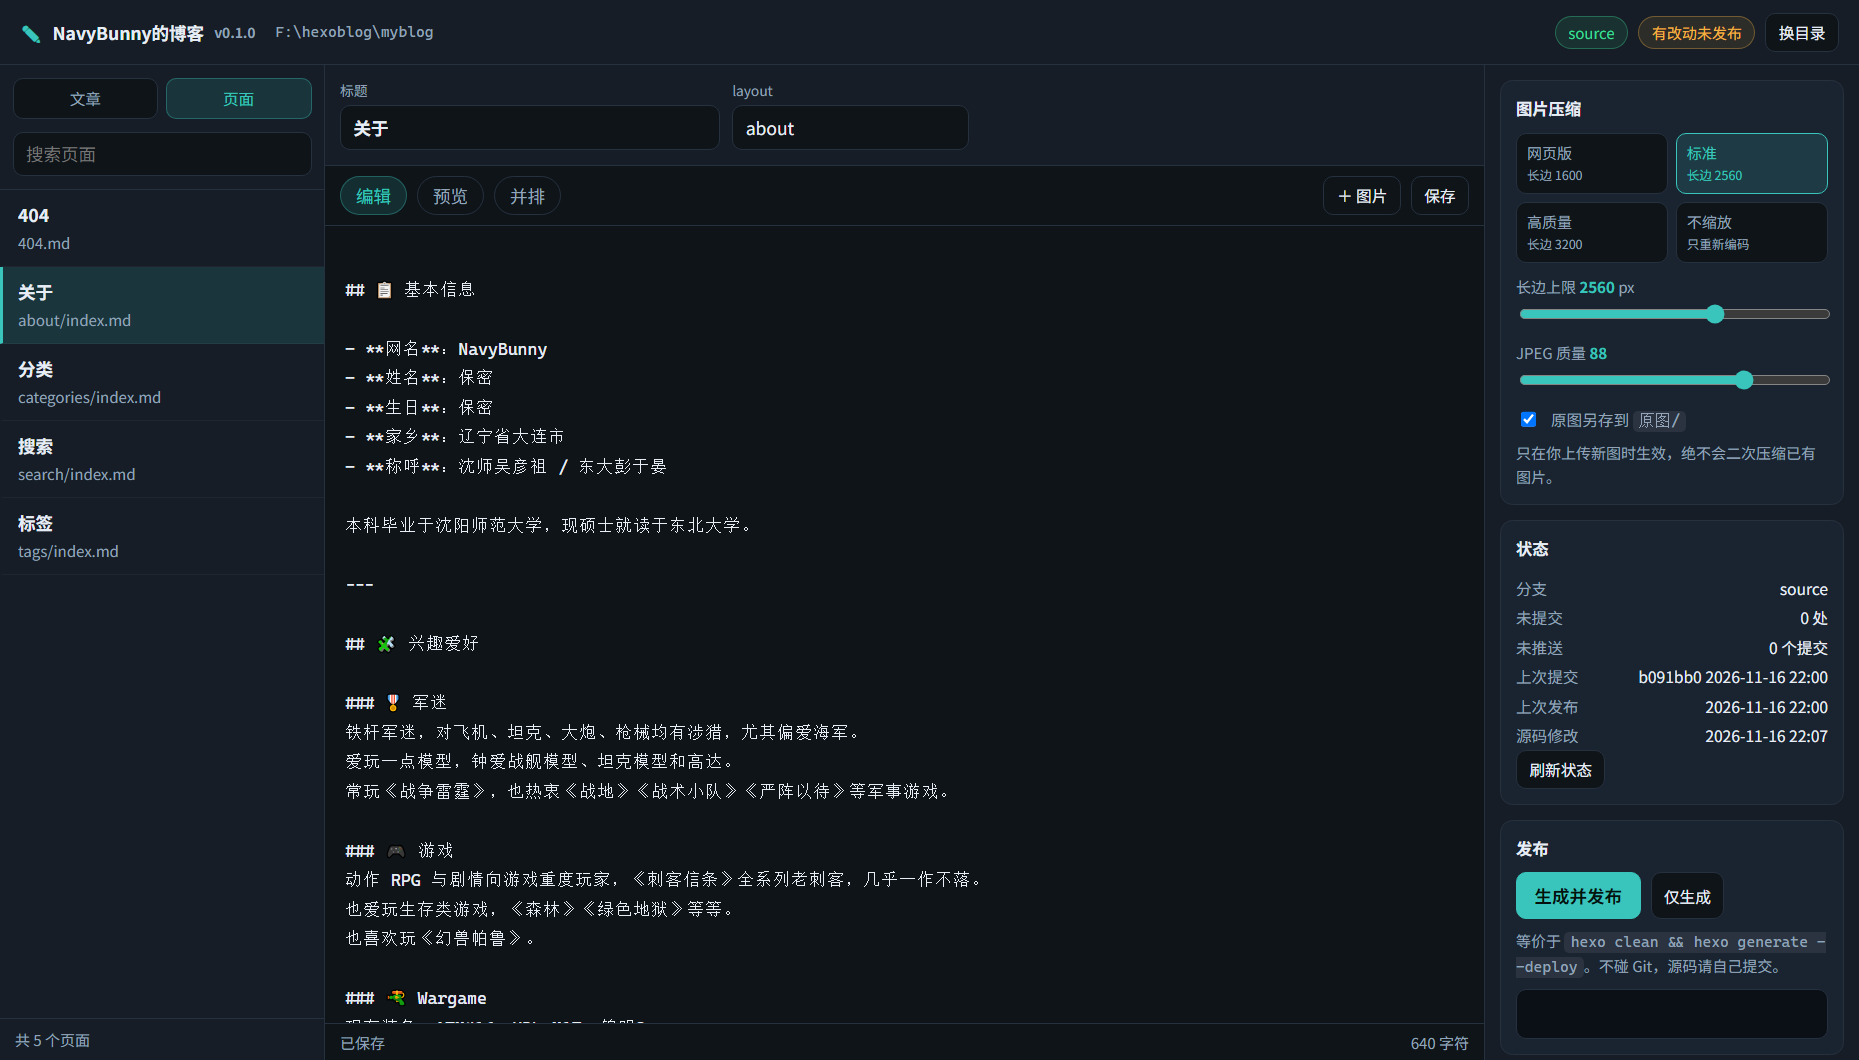
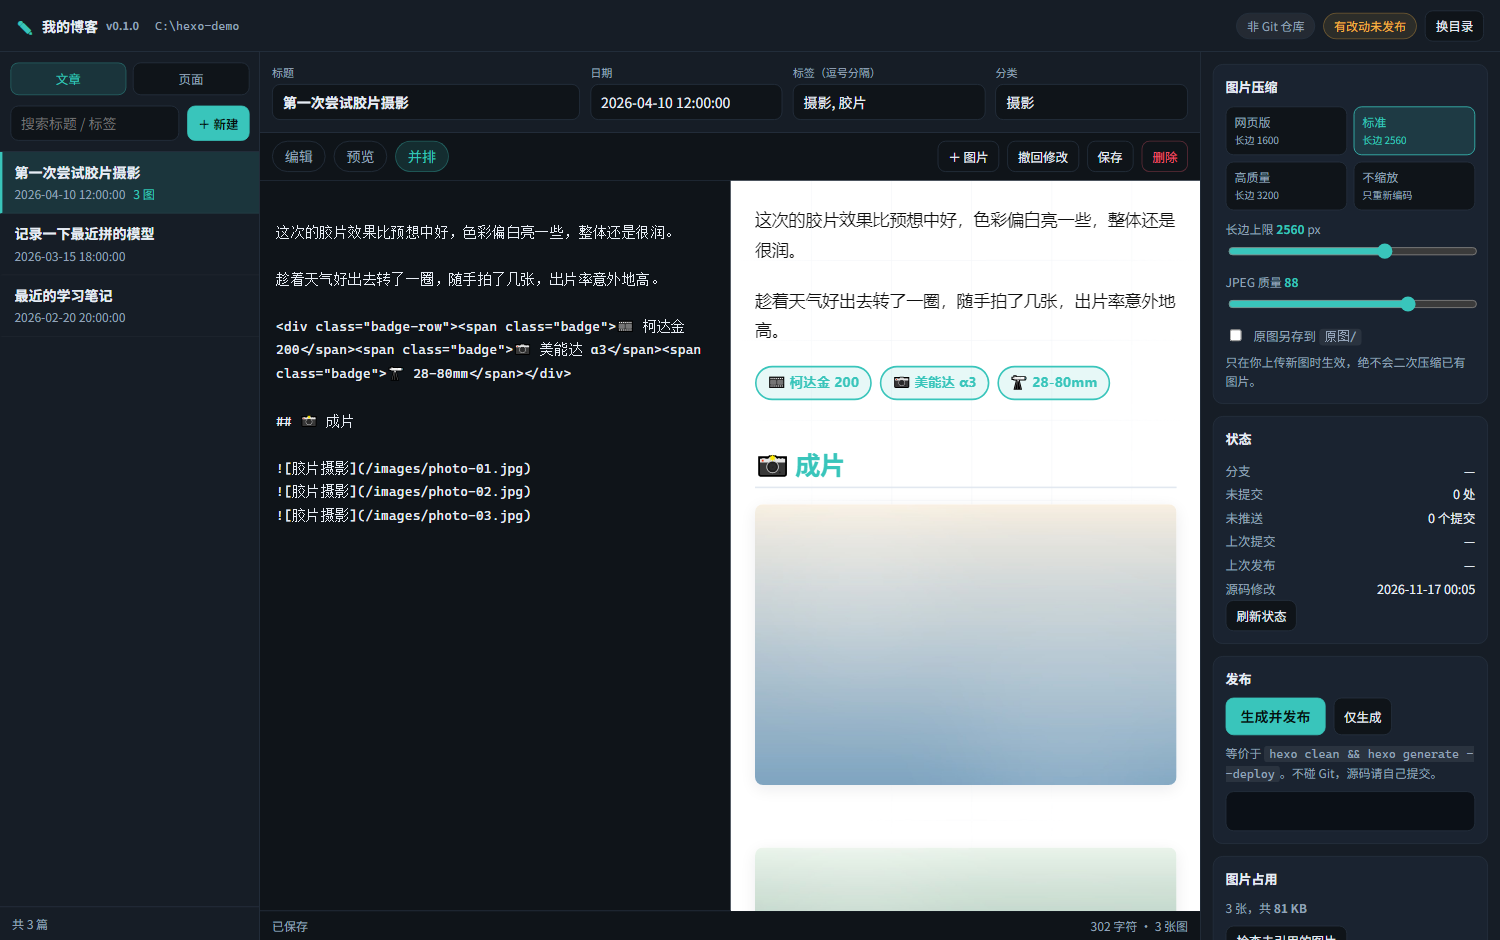
准备开源发布：清理个人路径、补全包元数据、重做截图
- package.json 补 repository / bugs / homepage / author / files
- 自测脚本改用环境变量与系统临时目录，移除硬编码的本地路径
- 界面里选择目录的占位符改成通用示例
- README 补充多图上传、BMP/TIFF、撤回修改、发布等待提示，
  目录结构加入 server/bmp.js，新增自测脚本用法
- 界面截图改用演示博客（C:\hexo-demo）重拍，不含任何个人信息

diff --git a/docs/selftest.js b/docs/selftest.js
@@ -1,9 +1,15 @@
 // 用 Node 发 UTF-8 请求，验证中文标题/标签/正文的完整往返
-const BASE = 'http://127.0.0.1:4399';
+// 用法：先启动一个指向测试夹具的服务，然后 node docs/selftest.js
+//   环境变量：BASE_URL（默认 http://127.0.0.1:4321）、FIXTURE_DIR（夹具目录）
 const fs = require('fs');
+const os = require('os');
+const path = require('path');
 
-const j = async (method, path, body) => {
-  const res = await fetch(BASE + path, {
+const BASE = process.env.BASE_URL || 'http://127.0.0.1:4321';
+const FX = process.env.FIXTURE_DIR || path.join(os.tmpdir(), 'hps-fixture');
+
+const j = async (method, urlPath, body) => {
+  const res = await fetch(BASE + urlPath, {
     method,
     headers: body ? { 'Content-Type': 'application/json' } : {},
     body: body ? JSON.stringify(body) : undefined
@@ -35,14 +41,14 @@ const j = async (method, path, body) => {
   out.push('tags 未被改动: ' + (JSON.stringify(two.data.tags) === JSON.stringify(['摄影', '测试'])));
 
   // 4. 原始文件内容
-  const raw = fs.readFileSync('F:/hexoblog/_fixture/source/_posts/' + c.id, 'utf8');
+  const raw = fs.readFileSync(path.join(FX, 'source/_posts', c.id), 'utf8');
   out.push('---- 文件实际内容 ----');
   out.push(raw.split('\n').slice(0, 8).join('\n'));
 
   // 5. 删除 -> 回收目录
   const del = await j('DELETE', '/api/posts/' + encodeURIComponent(c.id));
   out.push('删除后移到: ' + del.movedTo);
-  out.push('原文件已不存在: ' + !fs.existsSync('F:/hexoblog/_fixture/source/_posts/' + c.id));
+  out.push('原文件已不存在: ' + !fs.existsSync(path.join(FX, 'source/_posts', c.id)));
 
   console.log(out.join('\n'));
 })().catch((e) => {

diff --git a/docs/selftest-multi-upload.js b/docs/selftest-multi-upload.js
@@ -1,15 +1,21 @@
 // 验证多图上传：用 DataTransfer 构造 3 个 File，塞进 input 并触发 change
+// 需要：Chrome 以 --remote-debugging-port=9222 启动，客户端跑在 APP_PORT 上，
+//       IMG_DIR 里放 multi-1.jpg ~ multi-3.jpg 三张测试图
 const fs = require('fs');
+const os = require('os');
+const path = require('path');
 
-const PORT = 9433;
-const OUT = 'F:\\hexoblog\\_multi.json';
+const IMG_DIR = process.env.IMG_DIR || path.join(os.tmpdir(), 'hps-img');
+
+const PORT = process.env.CDP_PORT || 9222;
+const OUT = process.env.OUT_JSON || path.join(os.tmpdir(), 'hps-multi.json');
 const sleep = (ms) => new Promise((r) => setTimeout(r, ms));
 
 async function main() {
   // 读现成的 3 张测试图（用 Pillow 生成，绕开 sharp 的 create 接口）
   const b64 = [];
   for (let i = 1; i <= 3; i += 1) {
-    const p = `F:/hexoblog/_multi_img/multi-${i}.jpg`;
+    const p = path.join(IMG_DIR, `multi-${i}.jpg`);
     b64.push(fs.readFileSync(p).toString('base64'));
   }
 
@@ -39,12 +45,9 @@ async function main() {
 
   await send('Page.enable');
   await send('Runtime.enable');
-  await send('Page.navigate', { url: `http://127.0.0.1:8765/x` }); // 占位，稍后真正导航
-  await sleep(300);
 
-  // 直接导航到客户端（端口由调用方传入环境变量）
-  const appPort = process.env.APP_PORT || 4433;
-  await send('Page.navigate', { url: `http://127.0.0.1:${appPort}/#post=a.md` });
+  const appPort = process.env.APP_PORT || 4321;
+  await send('Page.navigate', { url: `http://127.0.0.1:${appPort}/#post=${encodeURIComponent(process.env.POST_ID || 'a.md')}` });
   await sleep(2500);
 
   const script = `(async function(){

diff --git a/docs/selftest-publish.js b/docs/selftest-publish.js
@@ -1,5 +1,7 @@
 // 验证状态接口 + 发布流（deploy:false 只生成，不动线上）
-const BASE = 'http://127.0.0.1:4399';
+// 用法：node docs/selftest-publish.js
+//   环境变量：BASE_URL（默认 http://127.0.0.1:4321）、BLOG_DIR（要检查的 Hexo 博客目录）
+const BASE = process.env.BASE_URL || 'http://127.0.0.1:4321';
 
 const j = async (method, path, body) => {
   const res = await fetch(BASE + path, {
@@ -11,7 +13,7 @@ const j = async (method, path, body) => {
 };
 
 (async () => {
-  await j('POST', '/api/open', { blogDir: 'F:\\hexoblog\\myblog' });
+  await j('POST', '/api/open', { blogDir: process.env.BLOG_DIR || process.cwd() });
   console.log('=== 已切到真实博客 ===');
 
   const st = await j('GET', '/api/status');

diff --git a/public/index.html b/public/index.html
@@ -13,7 +13,7 @@
   <div class="modal-card">
     <h2>选择你的 Hexo 博客目录</h2>
     <p class="hint">填博客根目录（就是有 <code>_config.yml</code> 的那个文件夹）。只需要选一次，之后会记住。</p>
-    <input type="text" id="dirInput" placeholder="例如：F:\hexoblog\myblog">
+    <input type="text" id="dirInput" placeholder="例如：D:\blog">
     <div class="modal-actions">
       <button class="btn primary" id="dirOpenBtn">打开</button>
     </div>

diff --git a/docs/selftest-revert.js b/docs/selftest-revert.js
@@ -4,7 +4,7 @@ const path = require('path');
 const { execSync } = require('child_process');
 
 const PORT = process.env.APP_PORT || 4441;
-const FX = 'F:\\hexoblog\\_revert_fx';
+const FX = process.env.FIXTURE_DIR || path.join(require('os').tmpdir(), 'hps-revert-fx');
 
 const ORIGINAL = `---
 title: 原始标题

diff --git a/README.md b/README.md
@@ -11,11 +11,14 @@
 - **本地跑，不联网**：`npx` 启动后在浏览器用，所有文件直接读写你本地的博客目录，不经过任何服务器。
 - **文章 + 页面都能编辑**：除了 `source/_posts/` 的文章，`source/about/index.md` 这类页面也在同一个界面里改（关于页本来就要偶尔更新）。
 - **拖图即压缩**：图片拖进编辑器 / `Ctrl+V` 粘贴，自动按你选的等级压缩，写入 `source/images/`，并把 Markdown 插到光标处。
+- **一次拖入多张**：多个文件一起选/一起拖，按并发 3 张压缩，完成后按原顺序一次插入。
 - **压缩等级可选**：网页版 1600 / 标准 2560 / 高质量 3200 / 不缩放，也可以自己拖滑块调长边和 JPEG 质量。
 - **绝不二次压缩**：只压你新上传的图，已有文件一个都不动（这是画质杀手最常见的原因）。
+- **支持扫描仪格式**：`.bmp` / `.tif` / `.tiff` 都能直接传，自动转成网页用的 JPEG（见下方说明）。
 - **实时预览**：直接套用你博客主题的 CSS，所见接近所得。
+- **撤回修改**：改坏了点一下「撤回修改」，恢复到上次提交的版本（当前内容会先备份，不会丢）。
 - **状态一眼看清**：当前分支、未提交改动、未推送提交、**源码改过但还没发布**，都在顶栏。
-- **一键发布**：内部就是 `hexo clean && hexo generate --deploy`，输出实时滚动。
+- **一键发布**：内部就是 `hexo clean && hexo generate --deploy`，输出实时滚动，发完提醒你 Pages 还要等 1~2 分钟。
 - **不碰 Git**：本工具只读 Git 状态、只调 hexo 命令，提交和推送永远由你自己决定。
 - **可深链接**：刷新后停在原处，`#page=about/index.md` 这样的地址可以直接分享。
 
@@ -134,12 +137,23 @@ npm start
 bin/cli.js          启动器（解析参数、起服务、开浏览器）
 server/index.js     Express 路由
 server/site.js      识别 Hexo 博客、读 _config.yml
-server/posts.js     文章读写、front-matter 解析与序列化
+server/posts.js     文章与页面读写、front-matter 解析、撤回修改
 server/images.js    图片列表、压缩、未引用检查
+server/bmp.js       极简 BMP 解码器（sharp 不支持读 BMP）
 server/git.js       只读 Git 状态、源码/产物是否同步
 server/publish.js   调 hexo 命令并流式输出
 public/             前端（原生 JS，无框架）
+docs/selftest-*.js  自测脚本（需要 node + 一个测试夹具）
 ```
+
+自测脚本都是「起一个服务，然后打接口」的形式，可以用环境变量指定目标：
+
+```bash
+# 中文往返、多图上传、撤回、发布流
+BASE_URL=http://127.0.0.1:4321 FIXTURE_DIR=/tmp/hps node docs/selftest.js
+```
+
+Windows PowerShell 用 `$env:BASE_URL='...'` 的形式设置。
 
 ## 许可证
 
